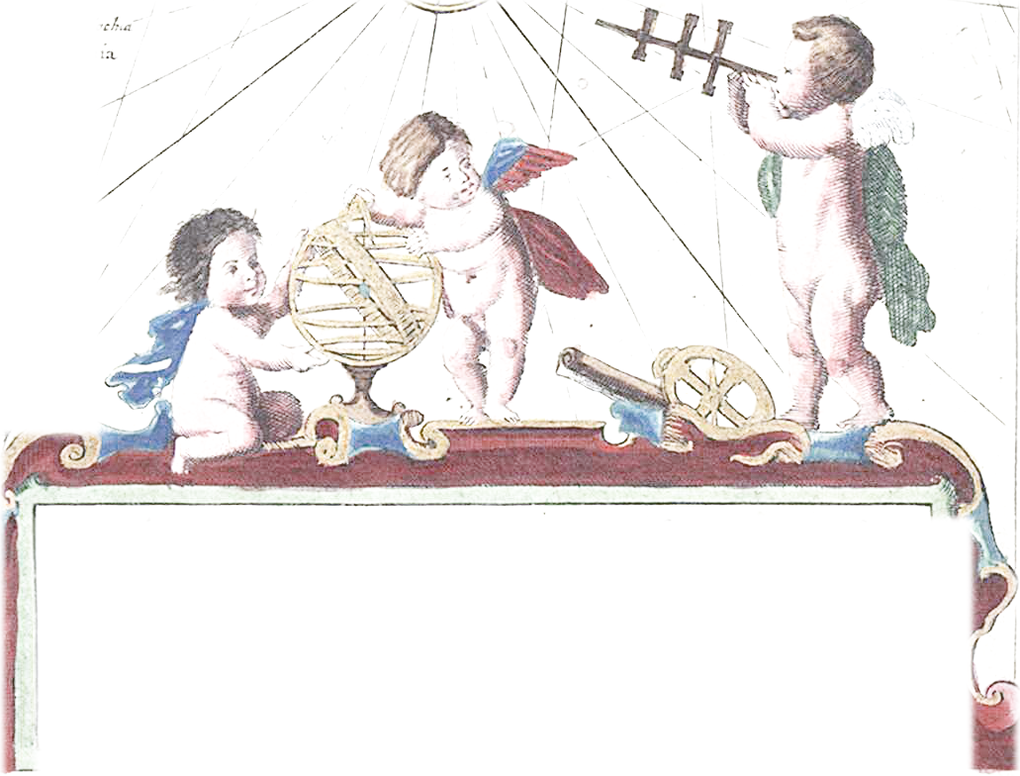
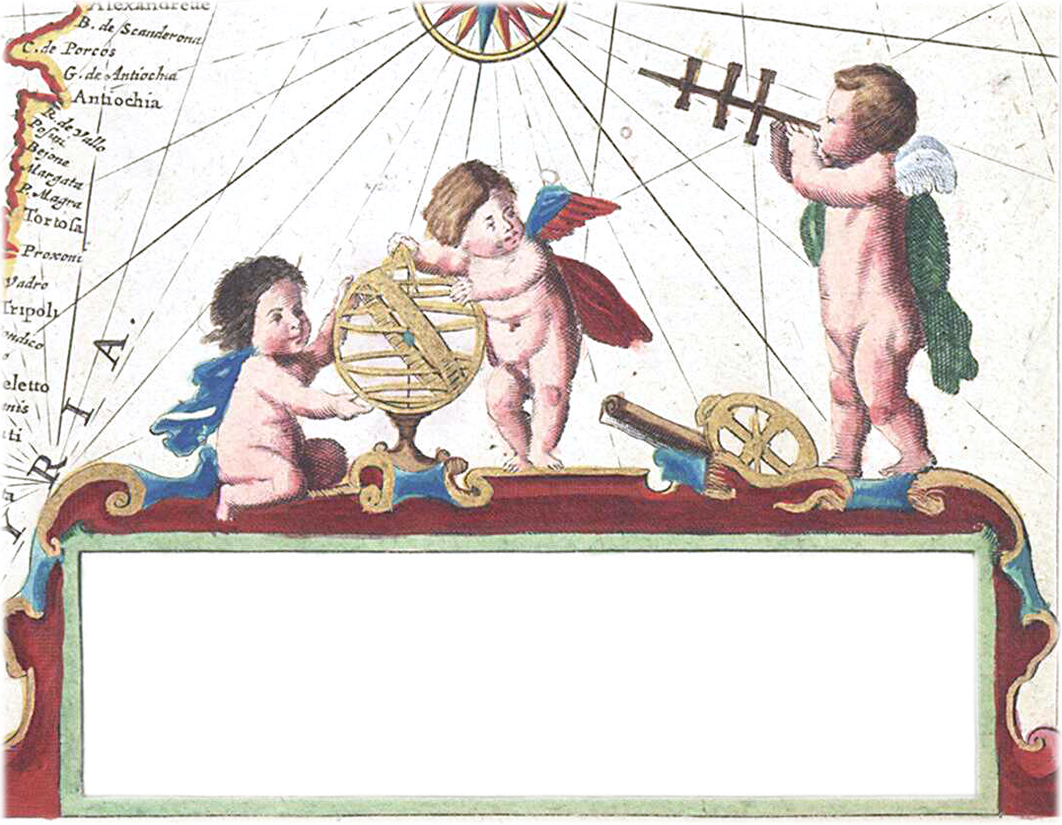
feat(packs): the de Wit cartouche as a patch, its crop widened (#111)

diff --git a/docs/dewit/README.md b/docs/dewit/README.md
@@ -1,0 +1,26 @@
+# The de Wit cartouche as a patch (#111)
+
+`cartouche-dewit` of the `scanned` pack, re-keyed from ink coverage to a patch. The scan is
+[Angel_cartouche_on_a_Mediterranean_map_by_de_Wit.tiff](https://commons.wikimedia.org/wiki/File:Angel_cartouche_on_a_Mediterranean_map_by_de_Wit.tiff)
+(Frederik de Wit, hand-coloured; 1,229 x 1,039, public domain); crop (150,200)-(1229,1039).
+
+![raw and cut on parchment, at map width](steps.png)
+
+`steps.png`, left to right: the raw crop multiplied onto parchment at the width the map draws it (the cartouche itself is
+354 px across with its surroundings; the old tight box keeps 340 px as `figure`), then the cut multiplied onto the same
+parchment. `cartouche-dewit.raw.png`, `.key.png` and `.cut.png` are the three images behind it.
+
+It was cut by ink coverage (levels 12 to 66 %, minimum of R, G, B), which thinned the washes and dropped the rhumb lines and
+coast, and two erase boxes cut the coast lettering at the left as pale holes. Now the whole crop is the sprite, its paper
+(`#e3dfc4`, the tablet's own paper) divided out so the renderer's multiply sinks it into the parchment, its edge feathered.
+The crop reaches 46 px further left and 50 px further up than before, so the feather falls on the chart, not across a putto's
+wing or the sextant; the right and bottom edges are the scan's own edge.
+
+Visual pass (`steps.png`): the three putti, the armillary sphere, the cannon, the sextant, the scrollwork with its gilt,
+blue and red wash, the green tablet border, the rhumb lines, the wind rose at the top and the coast lettering at the left
+(SYRIA, Antiochia and the rest, now left as surroundings) all survive. Absent from the cut, and why:
+
+- the three scale bars and their Dutch, Spanish and English lettering inside the tablet: the renderer letters the map's title
+  on the tablet (`panel`), and the scan's own lettering would show through under it; only the tablet's paper is cleared
+  (236,764)-(1142,1010), so its green border stays;
+- the scan's ageing stain across the paper: it is the paper colour, divided out by design.
